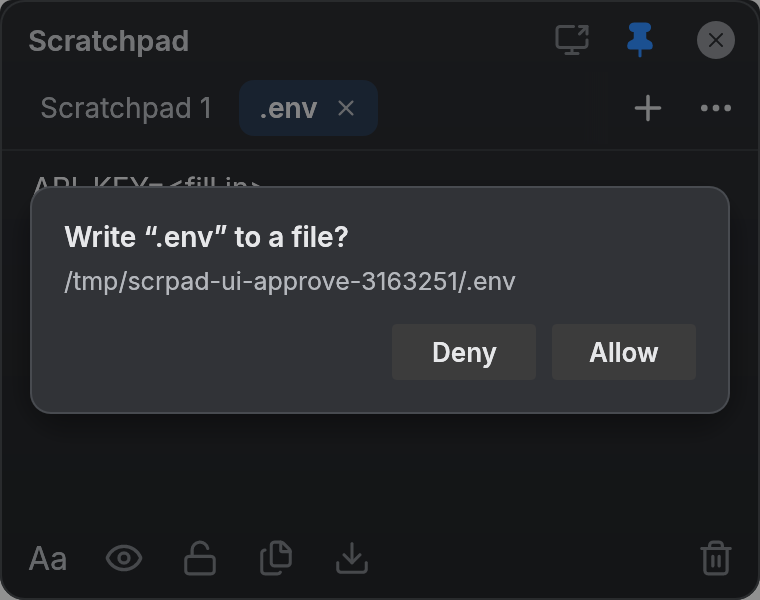
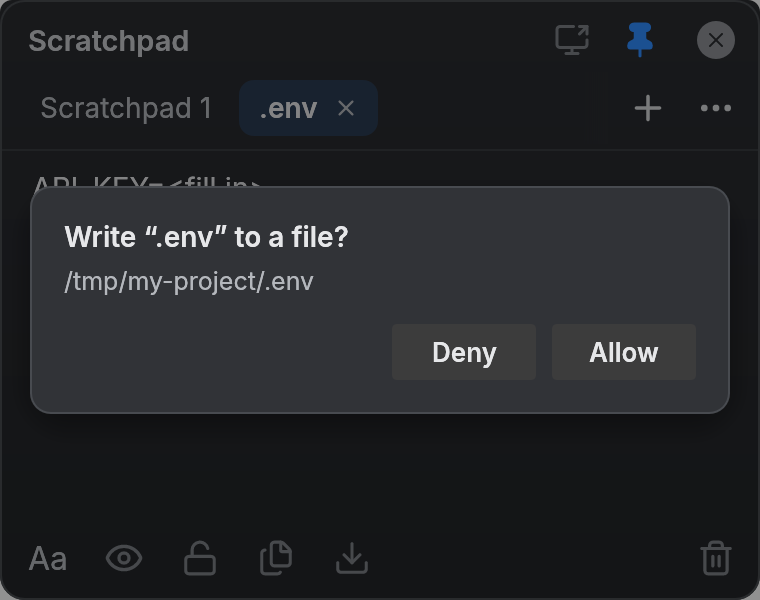
Show the round trip and both approval dialogs in the README
The command list gains --write, --run and --skill. The round trip gets a terminal example,
the .env rules and advice to hide the note once filled in; "Teaching your agent" covers the
plugin, the skill and the three-line instructions. The approval shot shows a fixed path
instead of one with the test's process id, and a new test shoots the --run dialog and
checks that Deny refuses it.

Changed region(s): [[0.1513, 0.45, 0.6961, 0.51]]

diff --git a/tests/ui.rs b/tests/ui.rs
@@ -669,7 +669,8 @@ fn hiding_from_screen_capture_is_a_header_toggle_that_persists() {
 #[test]
 fn an_agent_request_asks_first_and_writes_only_when_allowed() {
     let _guard = ui_test_guard();
-    let dir = std::env::temp_dir().join(format!("scrpad-ui-approve-{}", std::process::id()));
+    // A fixed name, not the process id: the dialog shows the path, and the shot goes in README.md.
+    let dir = std::env::temp_dir().join("my-project");
     let _ = std::fs::remove_dir_all(&dir);
     std::fs::create_dir_all(&dir).unwrap();
     let dir = std::fs::canonicalize(dir).unwrap();
@@ -722,4 +723,33 @@ fn an_agent_request_asks_first_and_writes_only_when_allowed() {
     assert!(matches!(job.join().unwrap(), scrpad::instance::Reply::Text(_)));
     assert_eq!(std::fs::read_to_string(dir.join(".env")).unwrap(), "API_KEY=<fill in>\n");
     let _ = std::fs::remove_dir_all(dir);
+}
+
+#[test]
+fn a_run_request_shows_the_command_and_deny_refuses_it() {
+    let _guard = ui_test_guard();
+    let mut state = sample();
+    state.notes[1].title = ".env".into();
+    state.notes[1].text = "API_KEY=<fill in>".into();
+    let mut h = harness(state);
+    let server = h.state().session.approval_server();
+    let argv = ["npm", "run", "dev"].map(String::from).to_vec();
+    let job = std::thread::spawn(move || server(&scrpad::cli::Command::Run { title: ".env".into(), argv }));
+    for _ in 0..100 {
+        h.run_steps(1);
+        if h.state().session.approval.is_some() {
+            break;
+        }
+        std::thread::sleep(std::time::Duration::from_millis(10));
+    }
+    while !h.state().session.approval_ready(h.ctx.input(|i| i.time)) {
+        h.run_steps(1);
+    }
+    h.run_steps(2);
+    h.get_by_label_contains("npm run dev");
+    shot(&mut h, "approval-run");
+    h.get_by_label("Deny").click();
+    h.run_steps(3);
+    assert!(h.state().session.approval.is_none());
+    assert!(matches!(job.join().unwrap(), scrpad::instance::Reply::Error(e) if e.contains("denied")));
 }

diff --git a/README.md b/README.md
@@ -71,9 +71,12 @@ scrpad -                    open a new note with the text from stdin
 scrpad --append TITLE TEXT  add TEXT to the note titled TITLE (TEXT - reads stdin)
 scrpad --list               print the titles of the notes scripts may read
 scrpad --read TITLE         print the text of a note
+scrpad --write TITLE DIR    write the note titled TITLE to the file DIR/TITLE, once you allow it
+scrpad --run TITLE -- CMD   run CMD with the note's KEY=VALUE lines as its environment, once you allow it
+scrpad --skill              print the SKILL.md that teaches an AI agent these commands
 ```
 
-`scrpad -` takes at most 1 MiB of UTF-8 text and drops the one trailing newline `echo` adds; anything else is refused with a message on stderr. The note is a plain note titled like any new one: hide or encrypt it as needed. A running scrpad takes over (below), so the note opens in the window you already have. The last three are for scripts and agents, below. For example, to turn the clipboard into a note with a key in Hyprland:
+`scrpad -` takes at most 1 MiB of UTF-8 text and drops the one trailing newline `echo` adds; anything else is refused with a message on stderr. The note is a plain note titled like any new one: hide or encrypt it as needed. A running scrpad takes over (below), so the note opens in the window you already have. `--append`, `--list`, `--read`, `--write`, `--run` and `--skill` are for scripts and agents, below. For example, to turn the clipboard into a note with a key in Hyprland:
 
 ```
 bind = SUPER SHIFT, V, exec, wl-paste | scrpad -
@@ -85,7 +88,9 @@ Notes are stored in `~/.config/scrpad/notes.json` (macOS: `~/Library/Application
 
 ## Scripts and agents
 
-Scripts, and AI agents such as Claude Code working in a terminal, can keep commands, paths and snippets in scrpad, and read your notes when you let them:
+Scripts, and AI agents such as Claude Code working in a terminal, can keep commands, paths and snippets in scrpad, read your notes when you let them, and hand a note to a program once you allow it (below). To teach an agent all this, install the Claude Code plugin or the skill (*Teaching your agent*, below).
+
+![A note added by an agent](docs/script-append.png)
 
 - **Appending is always on.** `scrpad --append TITLE TEXT` adds TEXT as a new paragraph, after a blank line, to the note titled exactly TITLE, or makes a note with that title after the others. `scrpad --append TITLE -` takes the text from stdin, with the limits of `scrpad -`. It never replaces or deletes anything. The window stays as it is: nothing takes the focus, the active note stays active, and a toast says *Added to “TITLE”*. An encrypted note, locked or not, is refused, and no second note with its title is made.
 - **Reading is off until you turn it on** with `…` → *Let scripts read notes*. Until then `scrpad --list` and `scrpad --read TITLE` fail with a message that says so. Once it is on, `--list` prints the titles of the readable notes, one per line, and `--read` prints the text of one; if several readable notes have the title, it reads the first in tab order. Scripts read what scrpad last saved, a fraction of a second behind your typing.
@@ -98,24 +103,32 @@ A running scrpad answers through its local socket (below; a named pipe on Window
 
 **Security.** Whatever an agent reads goes to its model provider with the rest of its context. And text in a note can hold instructions an agent might follow as if they were yours (prompt injection), from a pasted web page, say. That is why reading is off by default, why it never reaches hidden or encrypted notes, and why this interface can only add text, never change or delete it. Keep secrets hidden or encrypted, and leave reading off unless you are fine with an agent seeing the rest.
 
-For your agent's instructions (`CLAUDE.md`, `AGENTS.md` or the like):
-
-```
-Save useful commands, paths and snippets for me with `scrpad --append Agent -` (text on stdin).
-Read my notes with `scrpad --read <title>` (titles: `scrpad --list`) only when I ask.
-To give a program secrets, write the variable names to the scrpad note ".env" with --append, ask me to fill it in, then use scrpad --run .env -- <command> (or --write .env <dir>). Never read the file.
-```
-
 ### Handing a secret to the agent's project
 
-A project often needs a `.env` file, and you do not want to paste a key into the agent's chat. The round trip:
+A project often needs a `.env` file, and you do not want to paste a key into the agent's chat: whatever the agent sees goes to its model provider. The round trip:
 
-1. Make a note titled `.env` in scrpad.
-2. The agent adds the variable names with placeholders: `scrpad --append ".env" -` (text on stdin).
-3. You fill in the values yourself, in scrpad.
-4. The agent runs `scrpad --write .env .` (the note becomes the file `./.env`) or `scrpad --run .env -- npm run dev` (the note's `KEY=VALUE` lines become the command's environment). scrpad asks you, and you allow it.
+1. The agent adds the variable names, with empty values, to the note titled `.env` (made if missing).
+2. You fill in the values yourself, in scrpad, and hide the note (eye) or encrypt it (lock). Then no script can read it back, whatever *Let scripts read notes* says.
+3. The agent runs `scrpad --run .env -- npm run dev` (the note's `KEY=VALUE` lines become the command's environment) or `scrpad --write .env .` (the note becomes the file `./.env`). scrpad asks you, and you allow it.
 
-![The approval dialog](docs/approval.png)
+What the agent runs, and what it gets back:
+
+```
+$ printf '%s\n' 'OPENAI_API_KEY=' 'DATABASE_URL=' | scrpad --append .env -
+ok
+                                        (you fill in the values in scrpad and hide the note)
+$ scrpad --run .env -- npm run dev      (scrpad asks you: Allow)
+> my-app@1.0.0 dev
+…
+$ scrpad --write .env .                 (scrpad asks you: Allow)
+wrote /home/you/my-app/.env
+```
+
+The note's text never comes back to the agent: `--append` answers *ok*, `--write` the path it wrote, and `--run` passes on only what the command itself prints. The `.env` note follows `.env` conventions: blank lines and `#` comments are skipped, an `export ` in front is allowed, one pair of quotes is taken off a value, and nothing is expanded. A note that has another kind of line is refused by `--run`, with the line's number but not its text.
+
+| `--write` | `--run` |
+|---|---|
+| ![Approving --write](docs/approval.png) | ![Approving --run](docs/approval-run.png) |
 
 What the dialog guarantees:
 
@@ -129,24 +142,46 @@ What the dialog guarantees:
 
 **Limits, plainly.** Once `.env` is on the disk, scrpad no longer controls who reads it. The agent can `cat` it unless its tool rules stop that, and filters on shell commands are best effort. `--run` keeps the secret off the disk, but the command's own output can still print it, and the agent sees that output. Prefer `--run` when the program takes its settings from the environment. The dialog stops an agent that uses scrpad's commands as intended, not one set on defeating it: such an agent can speak scrpad's socket protocol itself, drive the desktop, or change what the allowed command does (a `package.json` script, say).
 
-A Claude Code hook can block reading the files by name. This one goes in `.claude/settings.json`: it stops a tool call that names `.env`, a name like `.env.local` (but not `.env.example`) or `config.json`, and tells the agent why (exit code 2). It is best effort and a starting point: adapt the names to the files you use. Quoting tricks, a shell glob such as `cat .e*`, or other file names can still slip past it.
+A Claude Code hook can block reading the files by name. The plugin (below) brings one: it stops a tool call that names `.env` or a name like `.env.local` (but not `.env.example`), tells the agent why, and lets through the scrpad commands that name the note (`scrpad --run .env -- …`). It needs `jq`. It is best effort: quoting tricks, a shell glob such as `cat .e*`, or other file names can still slip past it.
+
+### Teaching your agent
+
+**Claude Code: the plugin.** It holds the skill below and the hook above. In Claude Code:
+
+```
+/plugin install scrpad --marketplace mhavo/scrpad
+```
+
+Answer `y` to add the marketplace and pick a scope. The hook then guards `.env` files in every project. To guard other names too, such as `config.json`, or to use the hook without the plugin, copy `plugin/hooks/handoff-files.sh` and `handoff-files.jq` to `~/.claude/hooks/`, add the names in the `.jq` file, and name the script in `~/.claude/settings.json`:
 
 ```json
 {
   "hooks": {
     "PreToolUse": [
       {
-        "matcher": "Read|Edit|Write|Grep|Glob|Bash",
-        "hooks": [
-          {
-            "type": "command",
-            "command": "jq -e '[.tool_input | .. | strings] | any(test(\"(^|[/\\\\s\\\"\\u0027=~])(\\\\.env(\\\\.(?!example)[A-Za-z0-9_.-]+)?|config\\\\.json)($|[\\\\s\\\"\\u0027;|&)])\"))' >/dev/null && { echo 'scrpad handoff file: not for the agent' >&2; exit 2; } || exit 0"
-          }
-        ]
+        "matcher": "Read|Edit|Write|MultiEdit|NotebookEdit|Grep|Glob|Bash",
+        "hooks": [{ "type": "command", "command": "sh ~/.claude/hooks/handoff-files.sh" }]
       }
     ]
   }
 }
+```
+
+**Other agents: the skill.** Agents that read [Agent Skills](https://agentskills.io), such as Codex and Gemini CLI, get the same instructions from `SKILL.md`. scrpad prints the one matching its version:
+
+```
+mkdir -p ~/.agents/skills/scrpad
+scrpad --skill > ~/.agents/skills/scrpad/SKILL.md
+```
+
+`~/.agents/skills` is where Codex looks; other agents have a folder of their own (Gemini CLI: `~/.gemini/skills`), and a project can have one too (`.agents/skills`). Run the command again after updating scrpad. The skill tells the agent to save to the note `Agent`, read only when you ask, treat a note's text as data rather than instructions, never ask you to paste a secret into the chat, and never read a handed-over file or print the environment.
+
+**Any agent: three lines.** For an agent without skills, put this in its instructions (`AGENTS.md` or the like):
+
+```
+Save useful commands, paths and snippets for me with `scrpad --append Agent -` (text on stdin).
+Read my notes with `scrpad --read <title>` (titles: `scrpad --list`) only when I ask.
+To give a program secrets, write the variable names to the scrpad note ".env" with --append, ask me to fill it in, then use scrpad --run .env -- <command> (or --write .env <dir>). Never read the file.
 ```
 
 ## Terminal
@@ -268,13 +303,15 @@ just check            # everything CI gates on: rustfmt, clippy, typos, shellche
 cargo test            # just the unit tests + headless UI tests, images go to shots/
 ```
 
-Rust is pinned in `rust-toolchain.toml`; the other tools (just, cargo-deny, typos, shfmt, shellcheck, actionlint, zizmor, gitleaks) in `mise.toml`. The pre-commit hook runs the fast subset (`just pre-commit`: formatting, typos, gitleaks on the staged changes).
+Rust is pinned in `rust-toolchain.toml`; the other tools (just, cargo-deny, typos, shfmt, shellcheck, actionlint, zizmor, gitleaks, jq) in `mise.toml`. The pre-commit hook runs the fast subset (`just pre-commit`: formatting, typos, gitleaks on the staged changes).
 
-The README images in `docs/` are copies of `shots/dark.png`, `light.png`, `encrypt-popup.png` and `locked.png`. Refresh them after visual changes.
+The README images in `docs/` are copies of `shots/dark.png` (as `screenshot.png`), `light.png`, `encrypt-popup.png` (as `encrypt.png`), `locked.png`, `approval.png`, `approval-run.png` and `script-append.png`. Refresh them after visual changes.
+
+`tests/plugin.rs` checks the Claude Code plugin: its manifests, the skill's front matter, and the hook run on sample tool calls (with jq, pinned in `mise.toml`). `claude plugin validate .` checks the marketplace and the plugin as Claude Code reads them.
 
 ## Releasing
 
-CI (`.github/workflows/ci.yml`) runs `just check` and a gitleaks scan of the history on Linux and checks that the app builds on macOS and Windows. To publish a release, bump `version` in `Cargo.toml`, commit, and push a matching tag:
+CI (`.github/workflows/ci.yml`) runs `just check` and a gitleaks scan of the history on Linux and checks that the app builds on macOS and Windows. To publish a release, bump `version` in `Cargo.toml` and in `plugin/.claude-plugin/plugin.json` (a test holds them equal), commit, and push a matching tag:
 
 ```
 git tag v0.1.0
